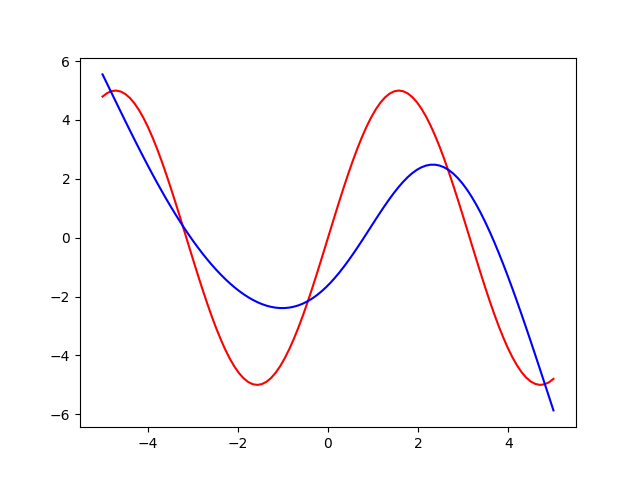
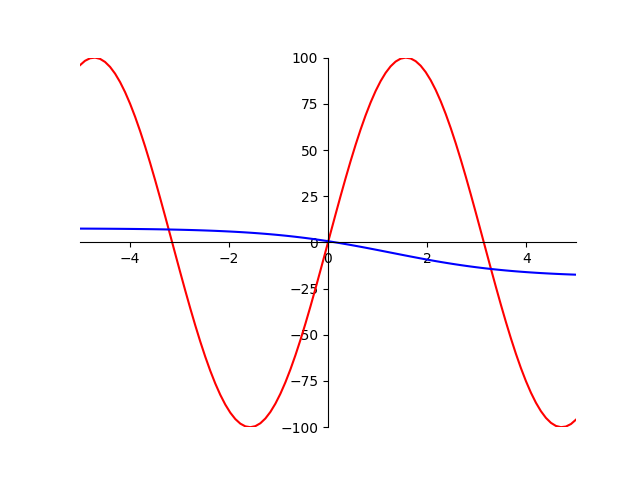
Started working with probable issue. l.61.

diff --git a/neural_network.py b/neural_network.py
@@ -30,6 +30,7 @@ def nloss(y_out, y):
 def d_nloss(y_out, y):
     return 2*(y_out - y)
 
+
 ###############################################################################
 
 class Neuron:
@@ -57,12 +58,20 @@ class Neuron:
     def evaluate(
         self, input: np.array, activation_function_included=True
     ) -> float:
+        # TODO: Error probably involves the bias of a neuron (the last of wages - I was not consistant whith its usage and operations on it)
+        print("In evaluate of Neuron")
+        print(f'input:{input}')
+        print(f'activation_function_included {activation_function_included}')
+        print(f'self.wages: {self.wages}')
         result = (input * self.wages[:-1]).sum() + self.wages[-1]
+        print(f"result: {result}")
+        print("End")
         if activation_function_included:
             return self.activation_function(result)[0]
         return result
 
 
+###############################################################################
 class Layer:
     def __init__(
         self, input_size, neurons_num,
@@ -115,6 +124,7 @@ class Layer:
         )))
 
 
+###############################################################################
 class DlNet:
     def __init__(
         self, x, y, number_of_layers, input_dimentionality=1,
@@ -125,7 +135,7 @@ class DlNet:
         self.y_out = 0
         self.input_dimentionality = input_dimentionality
         self.HIDDEN_L_SIZE = HIDDEN_L_SIZE  # number of neurons in a single layer
-        self.LR = 0.0005  # learning rate
+        self.LR = 0.003  # learning rate
         self.input_layer = Layer(
             input_dimentionality, HIDDEN_L_SIZE, sigmoid
         )
@@ -141,15 +151,17 @@ class DlNet:
     def forward(self, x):
         every_layer_input = []
         current_input = x
-        every_layer_input.append(np.array(current_input+[1]))
+        every_layer_input.append(np.concatenate([current_input, np.array([1])]))
+        # every_layer_input.append(np.array(current_input+[1]))
+        print(every_layer_input)
         current_input = self.input_layer.evaluate(current_input)
         for layer in self.hidden_layers:
             every_layer_input.append(current_input)
             current_input = layer.evaluate(current_input)
 
         every_layer_input.append(np.concatenate([current_input, [1]], axis=0))
-        current_input = self.output_layer.evaluate(current_input, False)
-        return (current_input, every_layer_input)
+        output = self.output_layer.evaluate(current_input, False)
+        return (output, every_layer_input)
 
     def predict(self, x):  # used after the network is tested
         return self.forward(x)[0]
@@ -184,16 +196,17 @@ class DlNet:
         neurons.append(self.get_layer_neurons(self.output_layer))
         return neurons
 
-    def backward(self, x, y):
+    def backward(self, x, y, predicted, all_inputs_reversed):
         neurons = self.get_all_neurons()
-        dsums = []
+        print(all_inputs_reversed)
+        dsums = []  # list of all dsums reversed
         actual = y
-        predicted, all_inputs = self.forward(x)
-        # print(self.error_function(actual, predicted))
+        #print(self.error_function(actual, predicted))
         current_dsum = self.error_function_gradient(predicted, actual)
+        #print(current_dsum)
         dsums.append([current_dsum])
         previous_layer = self.output_layer
-        for indx, layer in enumerate(reversed(self.hidden_layers)): # propagaetion from last to first
+        for indx, layer in enumerate(reversed(self.hidden_layers)):  # propagation from last to first
             current_gradient = layer.propagate_backward_dsum(
                 current_dsum, previous_layer
             )
@@ -204,20 +217,23 @@ class DlNet:
         )
         dsums.append(current_gradient)
         dsums = list(reversed(dsums))
+        #all_inputs_reversed = list(reversed(all_inputs_reversed))
         for inx, (layer_neurons, layer_dsum) in enumerate(zip(neurons, dsums)):
             for neuron, dsum in zip(layer_neurons, layer_dsum):
-                neuron.wages = neuron.wages - self.LR * dsum * all_inputs[inx]
+                neuron.wages = neuron.wages - self.LR * dsum * all_inputs_reversed[inx]
 
-    def train(self, x_set, y_set, iters):
+    def train(self, x_set: np.array[np.array], y_set, iters):
 
         for i in range(0, iters):
             print(f":{i}")
             for x, y in zip(x_set, y_set):
-                self.backward([x], [y])
+                print(f"np.array(x): {np.array([x])}")
+                predicted, all_inputs = self.forward(np.array(x))
+                self.backward([x], [y], predicted, all_inputs)
 
 ###############################################################################
 if __name__ == "__main__":
-    #ToDo tu prosze podac pierwsze cyfry numerow indeksow
+    # TODO: tu prosze podac pierwsze cyfry numerow indeksow
     # JG 324960
     # KK 318380
     p = [3, 7]
@@ -232,21 +248,29 @@ if __name__ == "__main__":
         return np.sign(x)
 
     def q2(x):
-        return 5 * np.sin(x)
+        return 100 * np.sin(x)
 
     def q3(x):
-        return -4*x
+        return x
+
+    def q4(x):
+        return x/x
+
+    def q5(x):
+        return np.abs(x)
 
     x = np.linspace(L_BOUND, U_BOUND, 100)
-    y = q2(x)
+    converted_x = np.array([np.array([xx]) for xx in x])
+    y = q3(x)
+    converted_y = np.array([np.array([yy]) for yy in y])
 
     # np.random.seed(1)
 
     # currently there is an error with vector input - function with input_dimentionality > 1
     # and with number of layers > 2
     NUMBER_OF_LAYERS = 2
-    nn = DlNet(x, y, NUMBER_OF_LAYERS, input_dimentionality=1, HIDDEN_L_SIZE=9)
-    nn.train(x, y, 5000)
+    nn = DlNet(converted_x, converted_y, NUMBER_OF_LAYERS, input_dimentionality=1, HIDDEN_L_SIZE=2)
+    nn.train(converted_x, converted_y, 100)
 
     yh = []  # ToDo tu umiesciÄ wyniki (y) z sieci
 
@@ -254,15 +278,15 @@ if __name__ == "__main__":
         yh.append(nn.predict(x_val)[0])
     import matplotlib.pyplot as plt
 
-
     fig = plt.figure()
-    # ax = fig.add_subplot(1, 1, 1)
-    # ax.spines['left'].set_position('center')
-    # ax.spines['bottom'].set_position('zero')
-    # ax.spines['right'].set_color('none')
-    # ax.spines['top'].set_color('none')
-    # ax.xaxis.set_ticks_position('bottom')
-    # ax.yaxis.set_ticks_position('left')
+    ax = fig.add_subplot(1, 1, 1)
+    ax.axis([-5, 5, -100, 100])
+    ax.spines['left'].set_position('center')
+    ax.spines['bottom'].set_position('zero')
+    ax.spines['right'].set_color('none')
+    ax.spines['top'].set_color('none')
+    ax.xaxis.set_ticks_position('bottom')
+    ax.yaxis.set_ticks_position('left')
 
     print(y)
     print(yh)
